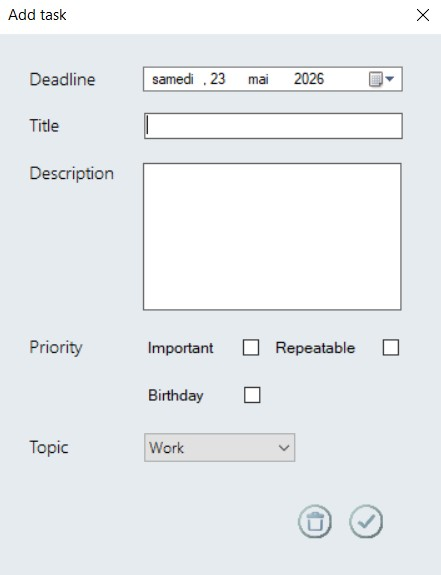
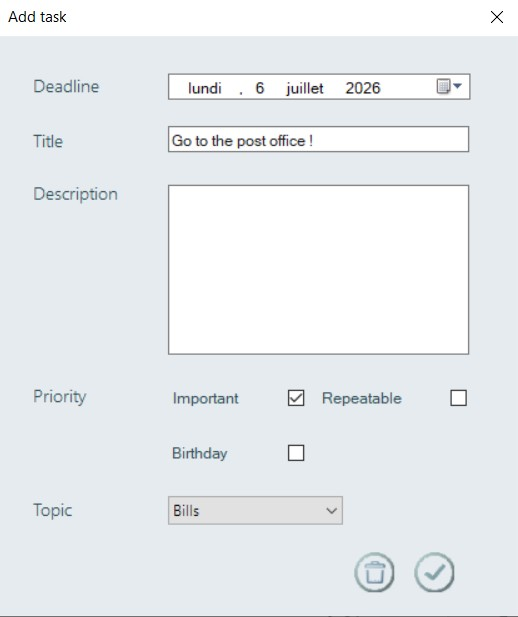
Updated application screenshots

diff --git a/frmMain.Designer.cs b/frmMain.Designer.cs
@@ -490,7 +490,7 @@
             cmdAddTask.FlatAppearance.MouseDownBackColor = Color.Transparent;
             cmdAddTask.FlatAppearance.MouseOverBackColor = Color.Transparent;
             cmdAddTask.FlatStyle = FlatStyle.Flat;
-            cmdAddTask.Location = new Point(120, 598);
+            cmdAddTask.Location = new Point(118, 598);
             cmdAddTask.Name = "cmdAddTask";
             cmdAddTask.Size = new Size(49, 38);
             cmdAddTask.TabIndex = 0;
@@ -507,7 +507,7 @@
             cmdSearch.FlatAppearance.MouseDownBackColor = Color.Transparent;
             cmdSearch.FlatAppearance.MouseOverBackColor = Color.Transparent;
             cmdSearch.FlatStyle = FlatStyle.Flat;
-            cmdSearch.Location = new Point(197, 473);
+            cmdSearch.Location = new Point(195, 473);
             cmdSearch.Name = "cmdSearch";
             cmdSearch.Size = new Size(34, 34);
             cmdSearch.TabIndex = 1;
@@ -552,7 +552,7 @@
             cmdBirthdayCalendar.FlatAppearance.MouseDownBackColor = Color.Transparent;
             cmdBirthdayCalendar.FlatAppearance.MouseOverBackColor = Color.Transparent;
             cmdBirthdayCalendar.FlatStyle = FlatStyle.Flat;
-            cmdBirthdayCalendar.Location = new Point(126, 468);
+            cmdBirthdayCalendar.Location = new Point(124, 468);
             cmdBirthdayCalendar.Name = "cmdBirthdayCalendar";
             cmdBirthdayCalendar.Size = new Size(38, 38);
             cmdBirthdayCalendar.TabIndex = 4;
@@ -590,7 +590,7 @@
             cmdNextDay.FlatAppearance.MouseDownBackColor = Color.Transparent;
             cmdNextDay.FlatAppearance.MouseOverBackColor = Color.Transparent;
             cmdNextDay.FlatStyle = FlatStyle.Flat;
-            cmdNextDay.Location = new Point(197, 400);
+            cmdNextDay.Location = new Point(196, 400);
             cmdNextDay.Name = "cmdNextDay";
             cmdNextDay.Size = new Size(28, 26);
             cmdNextDay.TabIndex = 6;
@@ -609,7 +609,7 @@
             cmdToday.FlatAppearance.MouseDownBackColor = Color.Transparent;
             cmdToday.FlatAppearance.MouseOverBackColor = Color.Transparent;
             cmdToday.FlatStyle = FlatStyle.Flat;
-            cmdToday.Location = new Point(129, 399);
+            cmdToday.Location = new Point(128, 399);
             cmdToday.Name = "cmdToday";
             cmdToday.Size = new Size(30, 30);
             cmdToday.TabIndex = 7;
@@ -628,7 +628,7 @@
             cmdPreviousDay.FlatAppearance.MouseDownBackColor = Color.Transparent;
             cmdPreviousDay.FlatAppearance.MouseOverBackColor = Color.Transparent;
             cmdPreviousDay.FlatStyle = FlatStyle.Flat;
-            cmdPreviousDay.Location = new Point(62, 400);
+            cmdPreviousDay.Location = new Point(61, 400);
             cmdPreviousDay.Name = "cmdPreviousDay";
             cmdPreviousDay.Size = new Size(28, 26);
             cmdPreviousDay.TabIndex = 8;
